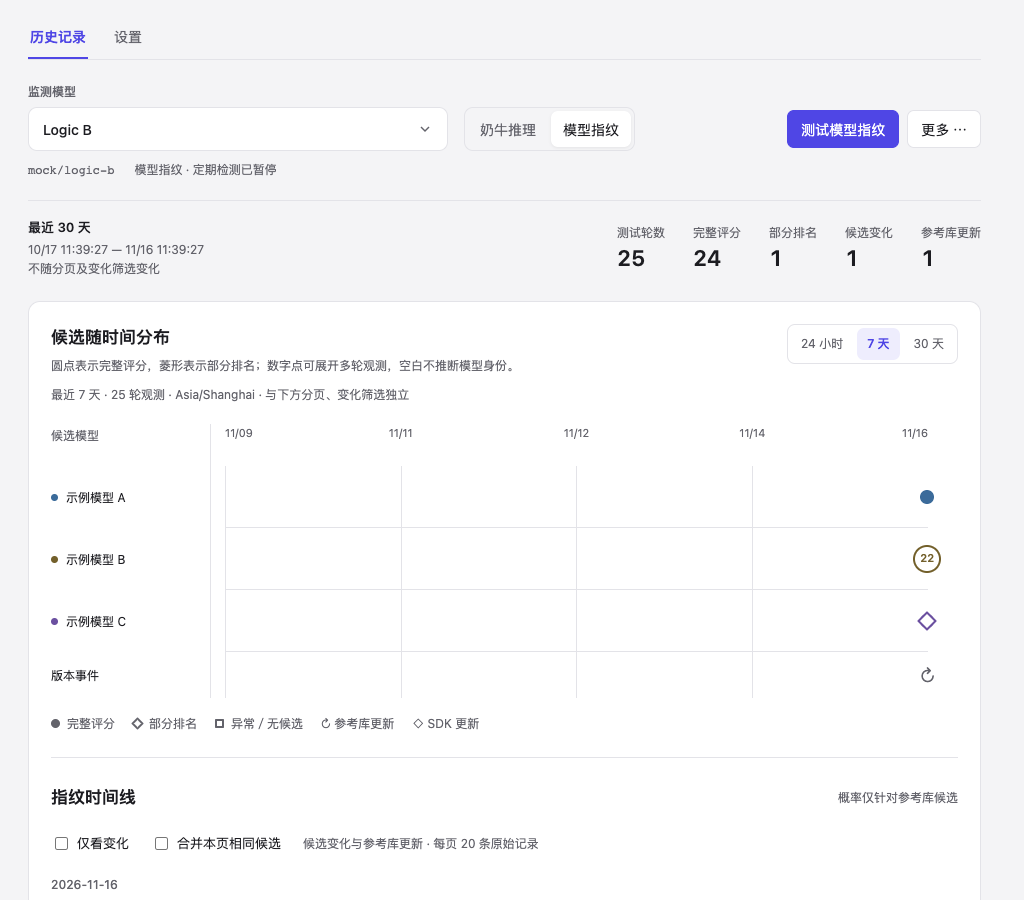
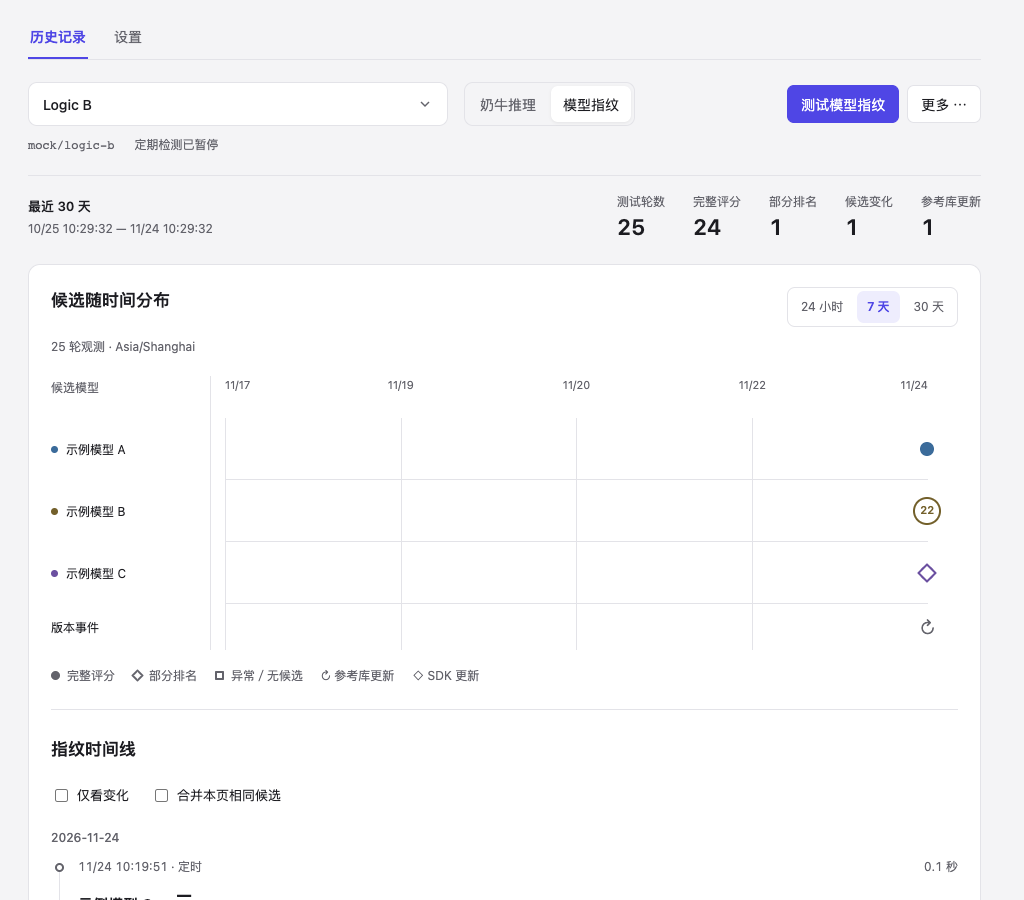
refactor(ui): remove redundant monitoring copy

diff --git a/ui/app.js b/ui/app.js
@@ -80,7 +80,7 @@
     const busy = state.active.some(j => j.model === selectedModel && j.testId === testId);
     $('#history-run').disabled = !config || busy;
     $('#history-run').textContent = busy ? '测试进行中…' : `测试${testNames[testId]}`;
-    $('#plan-summary').textContent = !current ? '' : !config ? '已移除模型 · 仅保留历史' : `${testNames[testId]} · ${config.enabled ? `每 ${config.intervalMinutes} 分钟 · 下次 ${time(config.nextAt)}` : '定期检测已暂停'}${busy ? ' · 测试进行中' : ''}`;
+    $('#plan-summary').textContent = !current ? '' : !config ? '仅保留历史' : config.enabled ? `每 ${config.intervalMinutes} 分钟 · 下次 ${time(config.nextAt)}` : '定期检测已暂停';
     $('#clear-history').disabled = !selectedModel;
     $('#history-empty').hidden = !!selectedModel;
     $('#history-content').hidden = !selectedModel;
@@ -99,14 +99,14 @@
     $('#history-summary').hidden = false;
     const stat = (label, value, cls = '') => `<div class="summary-stat ${cls}"><span>${label}</span><strong>${value}</strong></div>`;
     if (type === 'fingerprint') {
-      $('#history-summary').innerHTML = `<div class="summary-range">最近 30 天<span>${time(overview.from)} — ${time(overview.to)}<br>不随分页及变化筛选变化</span></div>${stat('测试轮数', overview.total)}${stat('完整评分', overview.scored)}${stat('部分排名', overview.partial)}${stat('候选变化', overview.changes)}${stat('参考库更新', overview.bankChanges)}`;
+      $('#history-summary').innerHTML = `<div class="summary-range">最近 30 天<span>${time(overview.from)} — ${time(overview.to)}</span></div>${stat('测试轮数', overview.total)}${stat('完整评分', overview.scored)}${stat('部分排名', overview.partial)}${stat('候选变化', overview.changes)}${stat('参考库更新', overview.bankChanges)}`;
       renderFingerprintOverview(distribution);
       timelineItems = history.items; renderTimeline(timelineItems);
     } else {
       const heatmap = overview;
       const counts = heatmap.cells.reduce((a, c) => { for (const k of Object.keys(a)) a[k] += c[k]; return a; }, { count: 0, passed: 0, failed: 0, unknown: 0, error: 0, pending: 0 });
-      $('#history-summary').innerHTML = `<div class="summary-range">最近 30 个日期<span>${heatmap.dates[0]} — ${heatmap.dates.at(-1)}<br>按服务时区 · 不随列表筛选变化</span></div>${stat('已结束', counts.count)}${stat('通过', counts.passed, 'stat-passed')}${stat('未通过', counts.failed, 'stat-failed')}${stat('无法判定', counts.unknown)}${stat('调用异常', counts.error, 'stat-error')}${stat('进行中', counts.pending)}`;
-      $('#timezone').textContent = `${heatmap.timeZone} · 每格 6 小时`;
+      $('#history-summary').innerHTML = `<div class="summary-range">最近 30 天<span>${heatmap.dates[0]} — ${heatmap.dates.at(-1)}</span></div>${stat('已结束', counts.count)}${stat('通过', counts.passed, 'stat-passed')}${stat('未通过', counts.failed, 'stat-failed')}${stat('无法判定', counts.unknown)}${stat('调用异常', counts.error, 'stat-error')}${stat('进行中', counts.pending)}`;
+      $('#timezone').textContent = heatmap.timeZone;
       const heat = $('#heatmap');
       if (heatModel) heatScroll.set(heatModel, heat.scrollLeft);
       const markup = `<div class="heatmap-grid">${[0, 1, 2, 3].map(slot => `<span class="heat-label">${String(slot * 6).padStart(2, '0')}–${String(slot * 6 + 6).padStart(2, '0')}</span>${heatmap.dates.map(day => {
@@ -120,7 +120,8 @@
       $('#filter-day').max = heatmap.dates.at(-1);
       if (!$('#filter-day').value) $('#filter-day').value = heatmap.dates.at(-1);
       $('#reset-filter').hidden = !filter;
-      $('#filter-description').textContent = filter ? `${filter.day} · ${filter.slot * 6}:00–${filter.slot * 6 + 6}:00` : '全部历史 · 点击记录查看详情及人工矫正';
+      $('#filter-description').hidden = !filter;
+      $('#filter-description').textContent = filter ? `${filter.day} · ${filter.slot * 6}:00–${filter.slot * 6 + 6}:00` : '';
       const records = history.items.length ? history.items.map(r => `<tr data-record="${escape(r.id)}"><td data-label="时间">${time(r.startedAt)}</td><td data-label="结果">${badge(r.result)}${r.corrected ? '<span class="manual-label">人工矫正</span>' : ''}</td><td data-label="耗时">${duration(r.duration)}</td><td data-label="来源" class="muted">${r.source === 'scheduled' ? '定时' : '手动'}</td><td><button class="plain" data-record="${escape(r.id)}" aria-label="查看 ${escape(time(r.startedAt))} 的测试详情">详情 →</button></td></tr>`).join('') : '<tr><td colspan="5" class="muted">该范围内暂无记录。</td></tr>';
       if ($('#records').innerHTML !== records) $('#records').innerHTML = records;
     }
@@ -146,7 +147,7 @@
       groups.get(key).items.push(r);
     }
     const rangeLabel = data.days === 1 ? '最近 24 小时' : `最近 ${data.days} 天`;
-    $('#overview-description').textContent = `${rangeLabel} · ${data.total} 轮观测 · ${state.timeZone} · 与下方分页、变化筛选独立`;
+    $('#overview-description').textContent = `${data.total} 轮观测 · ${state.timeZone}`;
     $('#overview-chart').setAttribute('aria-label', `${rangeLabel}候选分布，${data.total}轮观测；Tab 聚焦检测点查看摘要，Enter 打开详情或组内记录`);
     $('#overview-limit').hidden = !data.omitted;
     $('#overview-limit').textContent = data.omitted ? `范围内共 ${data.total} 轮，仅绘制最新 ${data.items.length} 轮，省略 ${data.omitted} 轮；请缩短范围查看。` : '';
@@ -197,7 +198,7 @@
     const scroll = host.scrollLeft, active = document.activeElement?.dataset.overviewPoint;
     const focusedTooltip = overviewTooltipAnchor === document.activeElement;
     hideOverviewTooltip();
-    host.innerHTML = data.items.length ? `<div class="overview-grid"><div class="overview-axis"><span class="overview-label">候选模型</span><div class="overview-ticks">${ticks.map(t => `<span style="left:${t.x}%">${escape(t.label)}</span>`).join('')}</div></div>${rowMarkup}<div class="overview-row event-row"><div class="overview-label">版本事件</div><div class="overview-track">${eventMarkup || '<span class="no-version-event muted small">范围内无版本变更</span>'}</div></div></div>` : '<div class="empty"><h3>该范围内暂无指纹观测</h3><p>切换更长范围查看已有历史，或等待下一次计划检测。</p></div>';
+    host.innerHTML = data.items.length ? `<div class="overview-grid"><div class="overview-axis"><span class="overview-label">候选模型</span><div class="overview-ticks">${ticks.map(t => `<span style="left:${t.x}%">${escape(t.label)}</span>`).join('')}</div></div>${rowMarkup}<div class="overview-row event-row"><div class="overview-label">版本事件</div><div class="overview-track">${eventMarkup || '<span class="no-version-event muted small">范围内无版本变更</span>'}</div></div></div>` : '<div class="empty"><h3>该范围内暂无指纹观测</h3></div>';
     host.scrollLeft = scroll;
     if (active) {
       [...host.querySelectorAll('[data-overview-point]')].find(button => button.dataset.overviewPoint === active)?.focus({ preventScroll: true });
@@ -234,7 +235,7 @@
     const group = overviewPoints.get(id); if (!group) return;
     hideOverviewTooltip();
     if (group.items.length === 1) return openDetail(group.items[0].id);
-    $('#overview-group-content').innerHTML = `<p class="muted small">${escape(group.label)}。点组仅合并显示，以下保留每轮观测。</p>${group.items.slice().reverse().map(r => `<button class="overview-record" data-overview-record="${escape(r.id)}"><span>${time(r.startedAt)} · ${escape(r.prediction || callLabels[r.state] || '无候选')}</span><small class="muted">${r.decision === 'partial' ? '部分排名 · 概率不可用' : `参考库内概率 ${probability(r.probability)}`} · 有效样本 ${r.usedOutputs ?? 0}/3${r.bankChanged ? ' · 参考库更新' : ''}${r.sdkChanged ? ' · SDK 更新' : ''}<br>参考版本 ${escape(r.bankBuiltAt || r.bankId || '—')} · SDK ${escape(r.sdk || '—')}</small></button>`).join('')}`;
+    $('#overview-group-content').innerHTML = `<p class="muted small">${escape(group.label)}</p>${group.items.slice().reverse().map(r => `<button class="overview-record" data-overview-record="${escape(r.id)}"><span>${time(r.startedAt)} · ${escape(r.prediction || callLabels[r.state] || '无候选')}</span><small class="muted">${r.decision === 'partial' ? '部分排名 · 概率不可用' : `参考库内概率 ${probability(r.probability)}`} · 有效样本 ${r.usedOutputs ?? 0}/3${r.bankChanged ? ' · 参考库更新' : ''}${r.sdkChanged ? ' · SDK 更新' : ''}<br>参考版本 ${escape(r.bankBuiltAt || r.bankId || '—')} · SDK ${escape(r.sdk || '—')}</small></button>`).join('')}`;
     $('#overview-group-dialog').showModal(); $('#overview-group-content').scrollTop = 0;
   }
   function renderTimeline(items) {
@@ -257,11 +258,11 @@
           end++;
         }
       }
-      if (end - i > 1) parts.push(`<details class="timeline-group" data-group="${escape(r.id)}"><summary><span>${escape(r.prediction)} <span class="badge">本页 ${end - i} 条</span></span><span class="muted small">${time(items[end - 1].startedAt)} — ${time(r.startedAt)} · 展开逐条查看</span></summary>${items.slice(i, end).map(entry).join('')}</details>`);
+      if (end - i > 1) parts.push(`<details class="timeline-group" data-group="${escape(r.id)}"><summary><span>${escape(r.prediction)} <span class="badge">本页 ${end - i} 条</span></span><span class="muted small">${time(items[end - 1].startedAt)} — ${time(r.startedAt)}</span></summary>${items.slice(i, end).map(entry).join('')}</details>`);
       else parts.push(entry(r));
       i = end;
     }
-    const markup = items.length ? parts.join('') : `<div class="empty"><h3>${changesOnly ? '暂无变化记录' : '还没有指纹记录'}</h3><p>${changesOnly ? '关闭「仅看变化」查看所有测试。' : '点击「测试模型指纹」开始采样，每轮最多 3 条请求。'}</p></div>`;
+    const markup = items.length ? parts.join('') : `<div class="empty"><h3>${changesOnly ? '暂无变化记录' : '还没有指纹记录'}</h3></div>`;
     if (timelineMarkup !== markup) {
       timelineMarkup = markup;
       const open = new Set([...document.querySelectorAll('.timeline-group[open]')].map(e => e.dataset.group));
@@ -293,7 +294,7 @@
     settingsRendered = true;
     $('#catalog-status').textContent = catalogError;
     $('#settings-list').innerHTML = state.modelConfigs.length ? state.modelConfigs.map(c => `<article class="model-group" data-model="${escape(c.model)}"><div class="section-heading"><div><h3>${escape(c.name)}</h3><div class="model-id">${escape(c.model)}</div></div><button class="plain danger" data-remove>移除</button></div>
-      <section class="config-card" data-config-model="${escape(c.model)}" aria-label="${escape(c.name)}检测设置"><fieldset class="test-selection"><legend>检测项目</legend>${Object.entries(testNames).map(([type, name]) => `<label class="test-choice"><input type="checkbox" name="selectedTests" value="${type}" ${c.selectedTests.includes(type) ? 'checked' : ''}><span><strong>${name}</strong><small>${type === 'milk' ? '每轮 1 条推理请求' : '每轮最多 3 条采样请求'}</small></span></label>`).join('')}</fieldset><p class="muted small selection-hint">所选项目共用以下配置；勾选后不会立即检测。</p>${sharedFields(c)}</section></article>`).join('') : '<div class="empty"><h2>添加第一个模型</h2><p>从 Magpie 模型目录中选择，各模型可独立配置。</p></div>';
+      <section class="config-card" data-config-model="${escape(c.model)}" aria-label="${escape(c.name)}检测设置"><fieldset class="test-selection"><legend class="sr-only">检测项目</legend>${Object.entries(testNames).map(([type, name]) => `<label class="test-choice"><input type="checkbox" name="selectedTests" value="${type}" ${c.selectedTests.includes(type) ? 'checked' : ''}><span><strong>${name}</strong><small>${type === 'milk' ? '每轮 1 条请求' : '每轮最多 3 条请求'}</small></span></label>`).join('')}</fieldset>${sharedFields(c)}</section></article>`).join('') : '<div class="empty"><h2>暂无监测模型</h2></div>';
     updateConfigStatus(); renderBank();
   }
   function updateConfigStatus() {
@@ -413,7 +414,6 @@
     if (button?.dataset.test) {
       testId = button.dataset.test; page = 1; filter = null; historyVersion++;
       for (const b of document.querySelectorAll('[data-test]')) b.setAttribute('aria-pressed', String(b.dataset.test === testId));
-      $('#history-footnote').textContent = testId === 'milk' ? '仅反映本测试表现。' : '每轮最多 3 条采样请求。概率仅针对参考库候选，不证明模型身份。';
       renderModelPicker(); return loadHistory();
     }
     if (button?.dataset.tab) return switchTab(button.dataset.tab);

diff --git a/ui/index.html b/ui/index.html
@@ -18,38 +18,44 @@
     <div id="notice" role="alert" hidden></div>
     <section id="history-panel" role="tabpanel" aria-labelledby="tab-history">
       <div class="history-context">
-        <div class="context-controls"><div class="model-picker"><span id="model-picker-label">监测模型</span><button id="history-model" class="model-select" aria-label="历史模型" aria-haspopup="listbox" aria-expanded="false" aria-controls="model-options" popovertarget="model-menu"><span id="selected-model-label">暂无模型</span><svg class="select-chevron" width="16" height="16" viewBox="0 0 24 24" fill="none" stroke="currentColor" stroke-width="1.75" aria-hidden="true"><path d="m6 9 6 6 6-6"/></svg></button></div>
+        <div class="context-controls"><div class="model-picker"><button id="history-model" class="model-select" aria-labelledby="model-picker-label selected-model-label" aria-haspopup="listbox" aria-expanded="false" aria-controls="model-options" popovertarget="model-menu"><span id="model-picker-label" class="sr-only">监测模型</span><span id="selected-model-label">暂无模型</span><svg class="select-chevron" width="16" height="16" viewBox="0 0 24 24" fill="none" stroke="currentColor" stroke-width="1.75" aria-hidden="true"><path d="m6 9 6 6 6-6"/></svg></button></div>
         <div class="test-switch" role="group" aria-label="检测类型"><button data-test="milk" aria-pressed="true">奶牛推理</button><button data-test="fingerprint" aria-pressed="false">模型指纹</button></div>
         <div class="actions"><button id="history-run" class="primary">测试奶牛推理</button><button id="history-more" aria-label="更多历史操作" popovertarget="history-menu">更多 <span aria-hidden="true">⋯</span></button></div></div>
         <div class="context-meta"><span id="selected-model-id" class="mono small muted"></span><span id="plan-summary" class="small muted"></span></div>
       </div>
-      <div id="model-menu" popover="auto"><div class="model-menu-heading">切换监测模型</div><div id="model-options" role="listbox" aria-labelledby="model-picker-label" tabindex="-1"></div></div>
+      <div id="model-menu" popover="auto"><div id="model-options" role="listbox" aria-labelledby="model-picker-label" tabindex="-1"></div></div>
       <div id="history-menu" popover="auto"><button id="clear-history" class="danger plain">清空历史</button></div>
       <div id="history-summary" class="history-summary" hidden></div>
-      <div id="history-empty" class="empty" hidden><h2>还没有测试记录</h2><p>先在设置中添加模型，再开始第一次测试。</p><button data-tab="settings">添加模型</button></div>
+      <div id="history-empty" class="empty" hidden><h2>还没有测试记录</h2><button data-tab="settings">添加模型</button></div>
       <div id="history-content" hidden>
         <div id="milk-history">
-        <div class="section-heading"><h2>最近 30 天</h2><span id="timezone" class="muted small"></span></div>
-        <p class="muted small heatmap-hint">横向滚动查看日期 · 悬停或聚焦查看数量 · 点击筛选</p>
+        <div class="section-heading"><h2>测试热力图</h2><span id="timezone" class="muted small"></span></div>
         <div id="heatmap" class="heatmap-scroll"></div><div id="heat-tooltip" class="heat-tooltip" role="tooltip" hidden></div>
         <div class="legend"><span><i class="passed"></i>全部通过</span><span><i class="failed"></i>存在未通过</span><span><i class="error"></i>异常 / 无法判定</span><span><i class="empty-cell"></i>无记录</span></div>
-        <p class="muted small aggregation-note">每格汇总一个时段，存在未通过时优先标红；橙色表示存在调用异常或无法判定。</p>
         <div class="slot-filter"><label>日期 <input id="filter-day" type="date"></label><label>时段 <span class="slot-select"><select id="filter-slot"><option value="0">00:00–06:00</option><option value="1">06:00–12:00</option><option value="2">12:00–18:00</option><option value="3">18:00–24:00</option></select><svg width="16" height="16" viewBox="0 0 24 24" fill="none" stroke="currentColor" stroke-width="1.75" aria-hidden="true"><path d="m6 9 6 6 6-6"/></svg></span></label><button id="apply-filter">筛选时段</button></div>
         <div class="section-heading records-heading"><h2>测试记录</h2><button id="reset-filter" class="plain" hidden>取消时段筛选</button></div>
-        <p id="filter-description" class="muted small"></p>
+        <p id="filter-description" class="muted small" hidden></p>
         <div class="table-scroll"><table><thead><tr><th>时间</th><th>结果</th><th>耗时</th><th>触发方式</th><th></th></tr></thead><tbody id="records"></tbody></table></div>
         </div>
-        <div id="fingerprint-history" hidden><section class="fingerprint-overview" aria-labelledby="overview-title"><div class="section-heading"><div><h2 id="overview-title">候选随时间分布</h2><p class="muted small">圆点表示完整评分，菱形表示部分排名；数字点可展开多轮观测，空白不推断模型身份。</p></div><div class="overview-ranges" role="group" aria-label="指纹汇总范围"><button data-overview-days="1" aria-pressed="false">24 小时</button><button data-overview-days="7" aria-pressed="true">7 天</button><button data-overview-days="30" aria-pressed="false">30 天</button></div></div><p id="overview-description" class="muted small"></p><div id="overview-chart" class="overview-chart"></div><div class="overview-legend muted small"><span><i class="overview-symbol scored"></i>完整评分</span><span><i class="overview-symbol partial"></i>部分排名</span><span><i class="overview-symbol unavailable"></i>异常／无候选</span><span>↻ 参考库更新</span><span>◇ SDK 更新</span></div><p id="overview-limit" class="muted small" hidden></p></section><div class="section-heading"><h2>指纹时间线</h2><span class="muted small">概率仅针对参考库候选</span></div><div class="timeline-controls"><label><input id="changes-only" type="checkbox"> 仅看变化</label><label><input id="group-candidates" type="checkbox"> 合并本页相同候选</label><span class="muted small">候选变化与参考库更新 · 每页 20 条原始记录</span></div><div id="timeline"></div></div>
+        <div id="fingerprint-history" hidden>
+          <section class="fingerprint-overview" aria-labelledby="overview-title">
+            <div class="section-heading"><h2 id="overview-title">候选随时间分布</h2><div class="overview-ranges" role="group" aria-label="指纹汇总范围"><button data-overview-days="1" aria-pressed="false">24 小时</button><button data-overview-days="7" aria-pressed="true">7 天</button><button data-overview-days="30" aria-pressed="false">30 天</button></div></div>
+            <p id="overview-description" class="muted small"></p><div id="overview-chart" class="overview-chart"></div>
+            <div class="overview-legend muted small"><span><i class="overview-symbol scored"></i>完整评分</span><span><i class="overview-symbol partial"></i>部分排名</span><span><i class="overview-symbol unavailable"></i>异常／无候选</span><span>↻ 参考库更新</span><span>◇ SDK 更新</span></div>
+            <p id="overview-limit" class="muted small" hidden></p>
+          </section>
+          <div class="section-heading"><h2>指纹时间线</h2></div>
+          <div class="timeline-controls"><label><input id="changes-only" type="checkbox"> 仅看变化</label><label><input id="group-candidates" type="checkbox"> 合并本页相同候选</label></div><div id="timeline"></div>
+        </div>
         <div class="pagination"><span id="page-info" class="muted small"></span><div><button id="previous">上一页</button><button id="next">下一页</button></div></div>
       </div>
     </section>
     <section id="settings-panel" role="tabpanel" aria-labelledby="tab-settings" hidden>
-      <div class="section-heading"><div><h2>监测模型</h2><p class="muted small">勾选检测项目，同一模型共享检测配置，修改后自动保存。</p></div><button id="add-model" class="primary">＋ 添加模型</button></div>
+      <div class="section-heading"><h2>监测模型</h2><button id="add-model" class="primary">＋ 添加模型</button></div>
       <p id="catalog-status" class="muted small"></p>
       <div id="settings-list"></div>
-      <section class="bank-settings"><div class="section-heading"><div><h2>指纹参考库</h2><p class="muted small">用于比较候选模型的参考数据，与上方待检测模型列表独立。下载后每天检查更新。</p></div><button id="update-bank">更新参考库</button></div><div id="bank-status" class="muted small" role="status"></div></section>
+      <section class="bank-settings"><div class="section-heading"><h2>指纹参考库</h2><button id="update-bank">更新参考库</button></div><div id="bank-status" class="muted small" role="status"></div></section>
     </section>
-    <footer id="history-footnote">仅反映本测试表现。</footer>
   </main>
   <dialog id="add-dialog" class="scroll-dialog" aria-labelledby="add-title"><div class="dialog-heading"><h2 id="add-title">添加监测模型</h2><button data-close="add-dialog" class="icon-button" aria-label="关闭">×</button></div><div class="dialog-body" tabindex="0" role="region" aria-label="可添加模型"><input id="model-search" type="search" placeholder="搜索模型或供应商" aria-label="搜索模型或供应商"><div class="section-heading"><span class="muted small">新增模型默认暂停自动测试</span><button id="refresh-models" class="plain">刷新目录</button></div><div id="model-choices"></div></div></dialog>
   <dialog id="detail-dialog" class="drawer scroll-dialog" aria-labelledby="detail-title"><div class="dialog-heading"><h2 id="detail-title">测试详情</h2><button data-close="detail-dialog" class="icon-button" aria-label="关闭详情" autofocus>×</button></div><div id="detail-content" class="dialog-body" tabindex="0" role="region" aria-label="测试详情内容"></div></dialog>

diff --git a/scripts/browser-check.js b/scripts/browser-check.js
@@ -49,12 +49,14 @@ try {
   await page.goto(f.origin);
   await expect(page.getByRole('tab', { name: '历史记录' })).toHaveAttribute('aria-selected', 'true');
   await expect(page.locator('#history-empty')).toBeVisible();
+  await expect(page.locator('#history-empty button')).toHaveAccessibleName('添加模型');
   await page.getByRole('tab', { name: '设置', exact: true }).click();
   await page.getByRole('button', { name: '＋ 添加模型' }).click();
   await page.getByRole('searchbox').fill('logic-a');
   await page.locator('[data-add="mock/logic-a"]').click();
   const a = page.locator('[data-model="mock/logic-a"] .config-card');
   await expect(a).toBeVisible(); await expect(a.locator('[name=enabled]')).not.toBeChecked();
+  await expect(a.getByRole('group', { name: '检测项目' })).toBeVisible();
   await a.locator('[name=intervalMinutes]').fill('45'); await a.locator('[name=intervalMinutes]').blur();
   await expect.poll(() => f.service.store.config('mock/logic-a')?.intervalMinutes).toBe(45);
   await a.locator('summary').click(); await a.locator('[name=effort]').selectOption('high');
@@ -81,6 +83,7 @@ try {
   await page.getByRole('tab', { name: '历史记录' }).click();
   await chooseModel('mock/logic-a');
   await page.locator('#history-model').focus(); await page.keyboard.press('ArrowDown');
+  await expect(page.locator('#history-model')).toHaveAccessibleName('监测模型 Logic A');
   await expect(page.locator('#history-model')).toHaveAttribute('aria-expanded', 'true');
   await expect(page.locator('[data-select-model="mock/logic-a"]')).toBeFocused();
   await page.keyboard.press('End'); await page.keyboard.press('Enter');
@@ -89,7 +92,7 @@ try {
   await page.locator('#history-model').click(); await page.keyboard.press('Escape');
   await expect(page.locator('#history-model')).toHaveAttribute('aria-expanded', 'false');
   await expect(page.locator('#history-model')).toBeFocused();
-  await page.locator('#history-model').click(); await page.locator('footer').click();
+  await page.locator('#history-model').click(); await page.locator('#timezone').click();
   await expect(page.locator('#model-menu')).not.toBeVisible();
   mkdirSync('docs/screenshots', { recursive: true });
   await page.evaluate(() => scrollTo(0, 0)); await page.waitForTimeout(100);
@@ -295,7 +298,9 @@ try {
   await page.locator('#filter-day').fill(new Date(now).toLocaleDateString('en-CA', { timeZone: 'Asia/Shanghai' }));
   await page.locator('#filter-slot').selectOption(String(Math.floor(Number(new Intl.DateTimeFormat('en-GB', { timeZone: 'Asia/Shanghai', hour: '2-digit', hourCycle: 'h23' }).format(now)) / 6)));
   await page.locator('#apply-filter').click(); await expect(page.locator('#reset-filter')).toBeVisible();
+  await expect(page.locator('#filter-description')).toContainText(await page.locator('#filter-day').inputValue());
   await page.locator('#reset-filter').click();
+  await expect(page.locator('#filter-description')).toBeHidden();
   const detailButton = page.locator('#records button').first();
   const detailBox = await detailButton.boundingBox(); expect(detailBox.x + detailBox.width).toBeLessThanOrEqual(375);
   await detailButton.click();
@@ -317,12 +322,13 @@ try {
   await page.waitForTimeout(3200);
   await expect(page.locator('.timeline-group')).toHaveAttribute('open', '');
   // Overview spans the complete time window, independently of list paging and filters.
-  await expect(page.locator('#overview-description')).toContainText('最近 7 天');
+  await expect(page.locator('#overview-chart')).toHaveAttribute('aria-label', /最近 7 天/);
   await expect(page.locator('#overview-chart .overview-row')).toHaveCount(4);
   await expect(page.locator('.overview-event')).toHaveCount(1);
   await page.locator('[data-overview-days="30"]').click();
   await expect(page.locator('[data-overview-days="30"]')).toHaveAttribute('aria-pressed', 'true');
-  await expect(page.locator('#overview-description')).toContainText('最近 30 天 · 26 轮观测');
+  await expect(page.locator('#overview-chart')).toHaveAttribute('aria-label', /最近 30 天/);
+  await expect(page.locator('#overview-description')).toContainText('26 轮观测');
   const cluster = page.locator('.overview-point.clustered').first();
   const overviewTooltip = page.locator('#overview-tooltip');
   await cluster.focus();
@@ -341,7 +347,7 @@ try {
   await expect(page.locator('#detail-content')).toContainText('Top 3 候选');
   await page.keyboard.press('Escape');
   await page.locator('[data-overview-days="1"]').click();
-  await expect(page.locator('#overview-description')).toContainText('最近 24 小时');
+  await expect(page.locator('#overview-chart')).toHaveAttribute('aria-label', /最近 24 小时/);
   await page.locator('#changes-only').check();
   await expect(page.locator('#timeline')).toContainText('筛选候选 A → 筛选候选 B');
   await expect(page.locator('#timeline')).toContainText('参考库已更新');

diff --git a/ui/style.css b/ui/style.css
@@ -60,7 +60,6 @@ input[type=checkbox] { accent-color:var(--accent); }
 .stat-passed strong { color:var(--good); } .stat-failed strong { color:var(--bad); } .stat-error strong { color:var(--warning); }
 #history-content,.model-group,.bank-settings { border:1px solid var(--line); border-radius:12px; padding:22px; background:var(--card); }
 .model-group,.bank-settings { padding:18px 20px; margin:14px 0; }
-.heatmap-hint { margin:-8px 0 10px; }
 .heatmap-scroll { overflow-x:auto; padding:5px 2px; scroll-padding-inline:60px 10px; }
 .heatmap-grid { display:grid; grid-template-columns:54px repeat(30,minmax(18px,1fr)); gap:6px; min-width:780px; align-items:center; }
 .heat-label { position:sticky; left:0; z-index:1; background:var(--card); align-self:stretch; display:flex; align-items:center; font-size:12px; color:var(--muted); }
@@ -70,9 +69,8 @@ input[type=checkbox] { accent-color:var(--accent); }
 .heat-cell.passed,.heat-cell.failed,.heat-cell.error { color:#19271e; } [data-theme=dark] .heat-cell.passed,[data-theme=dark] .heat-cell.failed,[data-theme=dark] .heat-cell.error { color:#fff; }
 .heat-cell:hover:not(:disabled) { box-shadow:inset 0 0 0 2px var(--accent); }
 .date-tick { font-size:12px; color:var(--muted); white-space:nowrap; min-height:20px; }
-.legend { display:flex; flex-wrap:wrap; gap:10px 20px; font-size:12px; color:var(--muted); margin:14px 0 8px; }
+.legend { display:flex; flex-wrap:wrap; gap:10px 20px; font-size:12px; color:var(--muted); margin:14px 0 18px; }
 .legend span { display:flex; align-items:center; gap:6px; } .legend i { width:12px; height:12px; display:inline-block; border-radius:2px; }
-.aggregation-note { margin-bottom:18px; }
 .slot-filter { display:flex; flex-wrap:wrap; align-items:end; gap:10px; margin:0 0 22px; }
 .slot-filter label { display:grid; gap:4px; font-size:12px; color:var(--muted); }
 .slot-filter input,.slot-filter select,.slot-filter>button { height:40px; min-height:40px; line-height:1.5; font-size:13px; color:var(--fg); margin:0; }
@@ -114,7 +112,7 @@ details .config-fields { margin-top:10px; padding:12px; background:var(--soft); 
 .bank-state { font-weight:500; color:var(--fg); margin:6px 0; }
 .bank-meta { display:grid; grid-template-columns:auto 1fr; gap:4px 16px; margin:8px 0; }
 .bank-meta dd { margin:0; overflow-wrap:anywhere; }
-#catalog-status { margin-top:-7px; } footer { font-size:12px; color:var(--muted); margin-top:28px; }
+#catalog-status { margin-top:-7px; } #catalog-status:empty { display:none; }
 .timeline-controls { display:flex; flex-wrap:wrap; align-items:center; gap:8px 22px; padding:0 0 16px; }
 .timeline-controls label { display:flex; align-items:center; gap:6px; font-size:13px; cursor:pointer; min-height:32px; }
 .timeline-controls input { min-height:0; }
@@ -181,7 +179,6 @@ pre { white-space:pre-wrap; overflow-wrap:anywhere; font-size:12px; background:v
 #model-menu,#history-menu { position:fixed; inset:auto; margin:0; padding:6px; border:1px solid var(--line); border-radius:10px; background:var(--card); color:var(--fg); box-shadow:0 12px 40px #0002,0 2px 8px #0001; overflow:hidden; }
 #model-menu:popover-open { display:flex; flex-direction:column; }
 #history-menu { width:160px; } #history-menu button { width:100%; text-align:left; }
-.model-menu-heading { flex:none; padding:6px 10px 10px; color:var(--muted); font-size:12px; }
 #model-options { min-height:0; overflow:auto; overscroll-behavior:contain; }
 .model-option { display:flex; align-items:center; justify-content:space-between; gap:16px; width:100%; padding:10px 12px; border:0; border-radius:7px; background:transparent; white-space:normal; text-align:left; }
 .model-option>span { min-width:0; }
@@ -308,12 +305,10 @@ pre { white-space:pre-wrap; overflow-wrap:anywhere; font-size:12px; background:v
 @media(pointer:coarse) { .overview-point,.overview-event { width:44px; height:44px; min-height:44px; } .overview-ranges button { min-height:44px; } }
 
 /* One configuration per model; test selection remains separate from automatic scheduling. */
-.test-selection { display:flex; flex-wrap:wrap; gap:12px; border:0; padding:0; margin:0; min-width:0; }
-.test-selection legend { font-weight:600; margin-bottom:8px; }
+.test-selection { display:flex; flex-wrap:wrap; gap:12px; border:0; padding:0; margin:0 0 16px; min-width:0; }
 .test-choice { display:flex; align-items:center; gap:10px; padding:10px 14px; min-height:48px; border:1px solid var(--line); border-radius:8px; cursor:pointer; background:var(--soft); }
 .test-choice:has(input:checked) { border-color:var(--accent); }
 .test-choice input { width:18px; height:18px; min-height:18px; padding:0; flex-shrink:0; margin:0; accent-color:var(--accent); }
 .test-choice strong,.test-choice small { display:block; }
 .test-choice small { color:var(--muted); font-size:12px; margin-top:3px; }
-.selection-hint { margin:10px 0 16px; }
 @media(max-width:600px) { .test-choice { flex:1 1 180px; } }

diff --git a/specs/ui-refinement/spec.md b/specs/ui-refinement/spec.md
@@ -21,6 +21,7 @@
 | UI-008 | 奶牛显示热力图对应 30 个服务日期的各结果次数；指纹显示最近 30×24 小时的轮数、完整／部分排名及候选变化次数 | 统计不随分页／时段／变化筛选变化；人工结果用于奶牛次数，不计算总体能力分数 |
 | UI-009 | 指纹「仅看变化」筛选在服务端分页前应用，包含候选变化及参考库更新；相邻比较跨页保持正确 | 部分排名不触发候选变化；参考库更新可独立出现；清空仍针对全部终态 |
 | UI-010 | 可折叠本页内连续相同候选、同参考库、同 SDK 的完整评分，默认逐条展示 | 变化边界及部分／异常／运行中不合并；分组标明本页和记录数，不跨日期、不跨页，分页仍按原始记录每页 20 条 |
+| UI-011 | 历史与设置不以副标题、页脚或常驻操作教程重复控件和图例；列表仅在时段筛选生效时显示筛选范围 | 保留图例、表单与无障碍名称、请求用量、参考库内概率、错误和恢复入口 |
 
 ## 未决问题
 

diff --git a/specs/ui-refinement/contracts/acceptance.md b/specs/ui-refinement/contracts/acceptance.md
@@ -35,3 +35,8 @@
 - `bun run test:browser`：通过；新增 1180／375 宽度下三个控件高度一致、日期与时段底边差不超过 1px、桌面按钮同排、select appearance 为 none 的实际断言；其余回归保持通过。
 - 原生 Magpie：激活并重新加载页面，滚动到筛选栏，截图确认日期／时段标签同排、三个操作框等高且上下边对齐。静态资源更新，无需重启后台，未改日常数据或触发模型测试。
 - 指纹汇总图为本轮设计建议，尚未实现，不纳入本次修复完成状态。
+
+## UI-011 文案精简（2026-11-24）
+
+- `bun run test:browser` 通过（Chromium、模拟网关、临时数据库）。模型选择器仍可按名称与当前值识别；设置中的检测项目仍有分组名称；应用时段筛选后显示日期，取消后隐藏。原有指纹图例与交互、保存失败重试、浅深主题及 375–1440px 布局回归通过。
+- 本次未重载或验收日常 Magpie 原生界面，未调用真实模型；用户体验待确认。

diff --git a/specs/ui-refinement/tasks.md b/specs/ui-refinement/tasks.md
@@ -5,4 +5,5 @@
 - [x] Store/API 与浏览器回归；隔离 Magpie 联调。
 - [x] 刷新日常 Magpie 并记录实际可见结果。
 - [x] 更新使用说明、知识库和验收证据。
+- [x] UI-011：精简历史与设置文案，保留筛选状态、图例与控件语义。
 - [ ] 用户体验验收（独立于实施和自动检查）。
